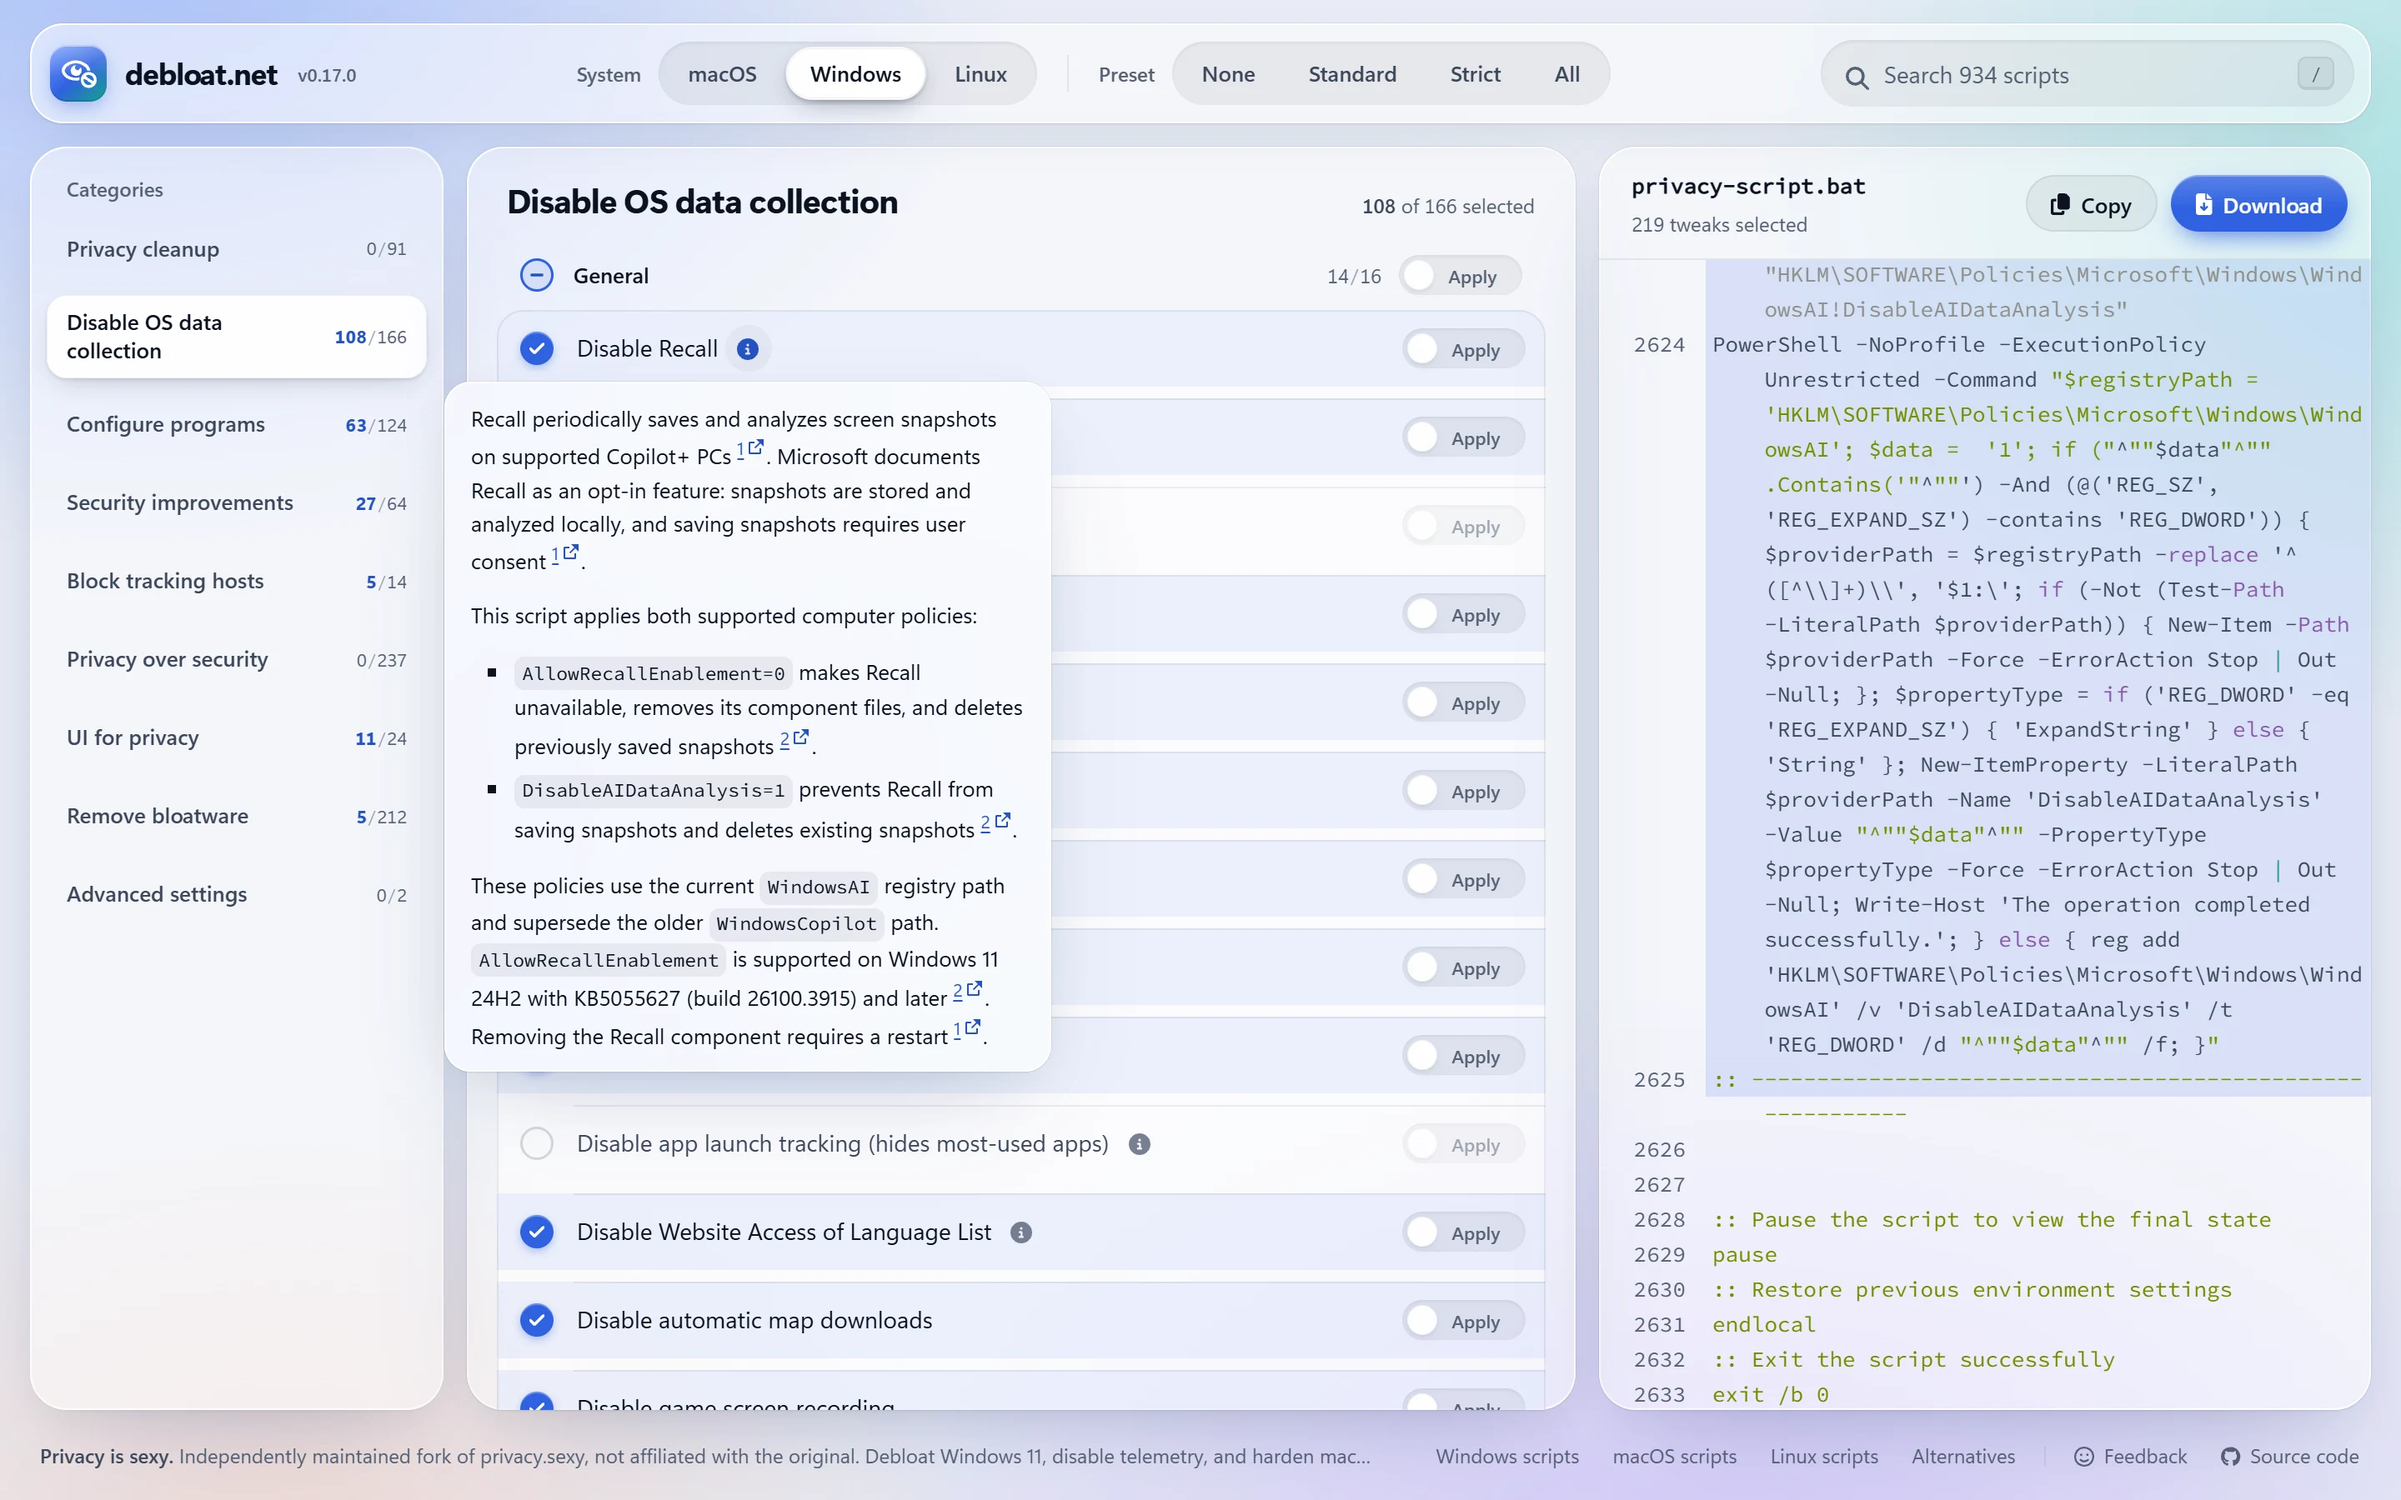
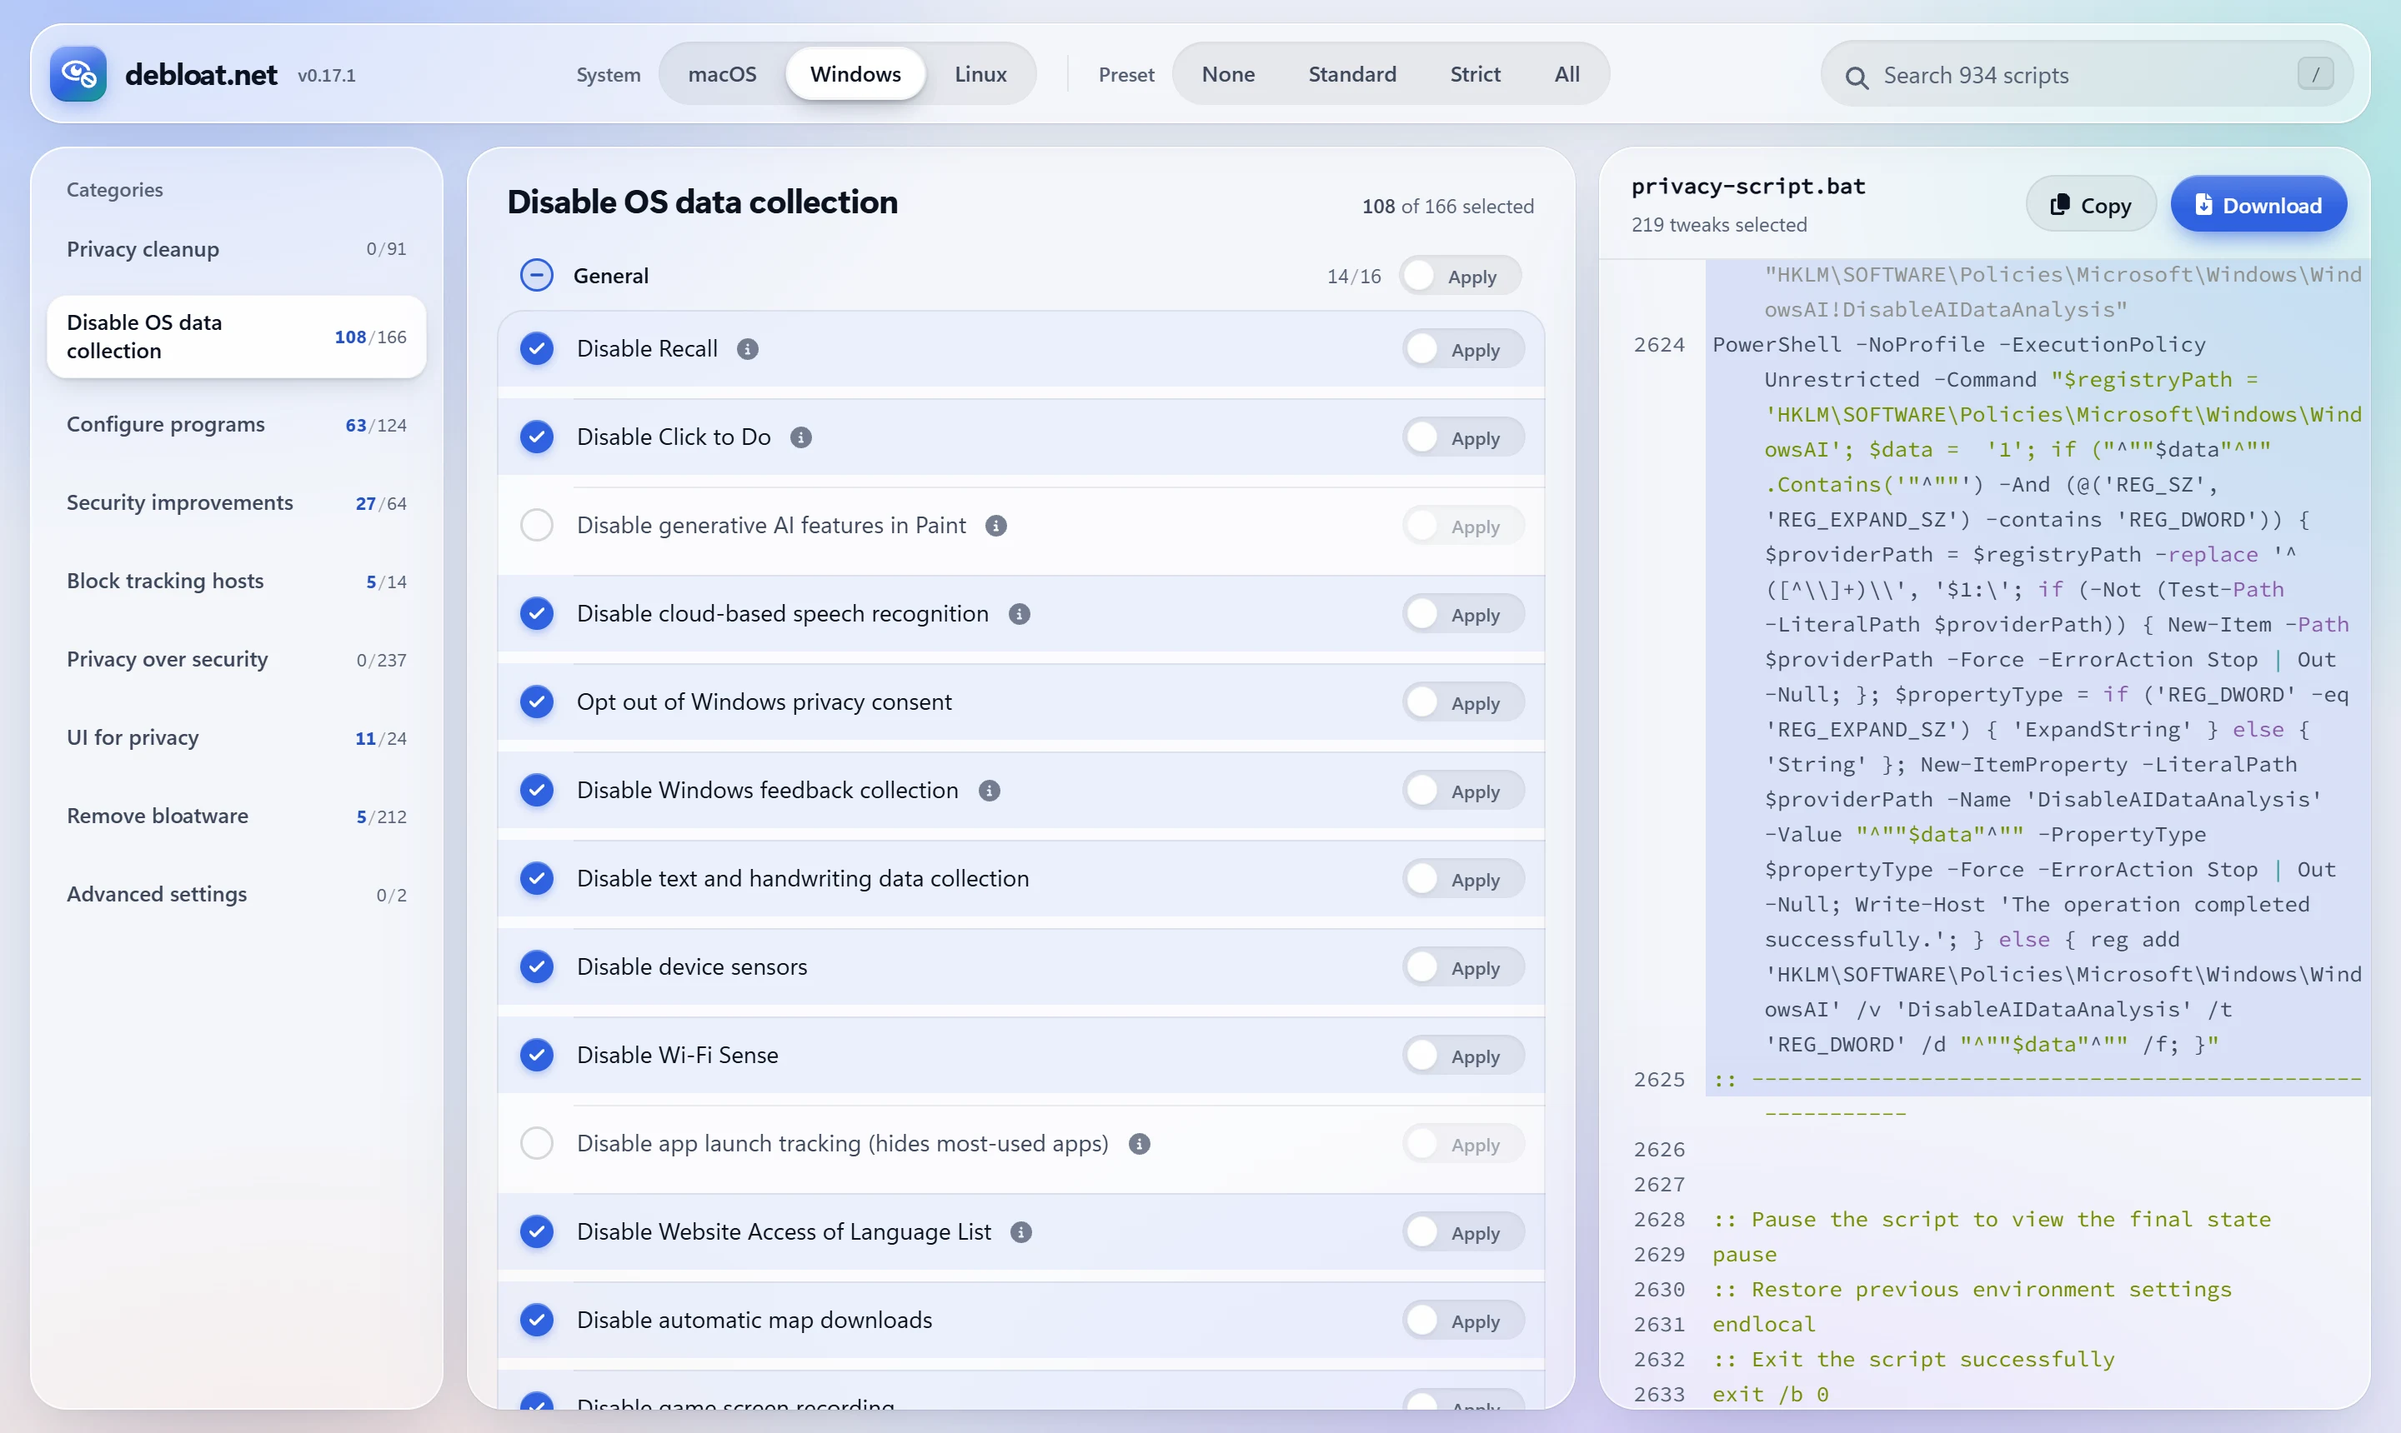
docs(readme): show a cleaner hero screenshot
The hero now shows the plain workbench without an open explanation box,
and every screenshot stops above the footer, whose single line of small
text was unreadable at README size. The gap left below the panels
matches the one above the top bar. Images are retaken from 0.17.1.

diff --git a/README.md b/README.md
@@ -33,7 +33,7 @@
 <a href="https://debloat.net">
   <picture>
     <source media="(prefers-color-scheme: dark)" srcset="img/readme/hero-dark.webp">
-    <img alt="debloat.net on Windows: the Disable Recall tweak is selected, its explanation and sources are open, and the generated script is shown on the right" src="img/readme/hero-light.webp">
+    <img alt="debloat.net on Windows: Disable Recall and other telemetry tweaks are selected, with the generated script on the right" src="img/readme/hero-light.webp">
   </picture>
 </a>
 
